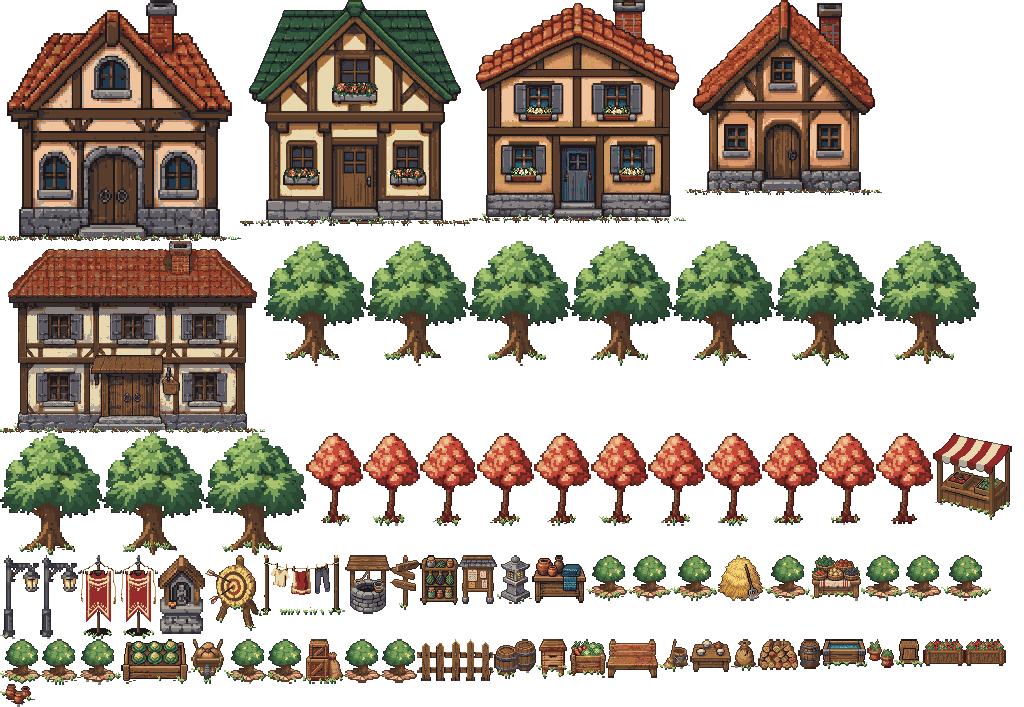
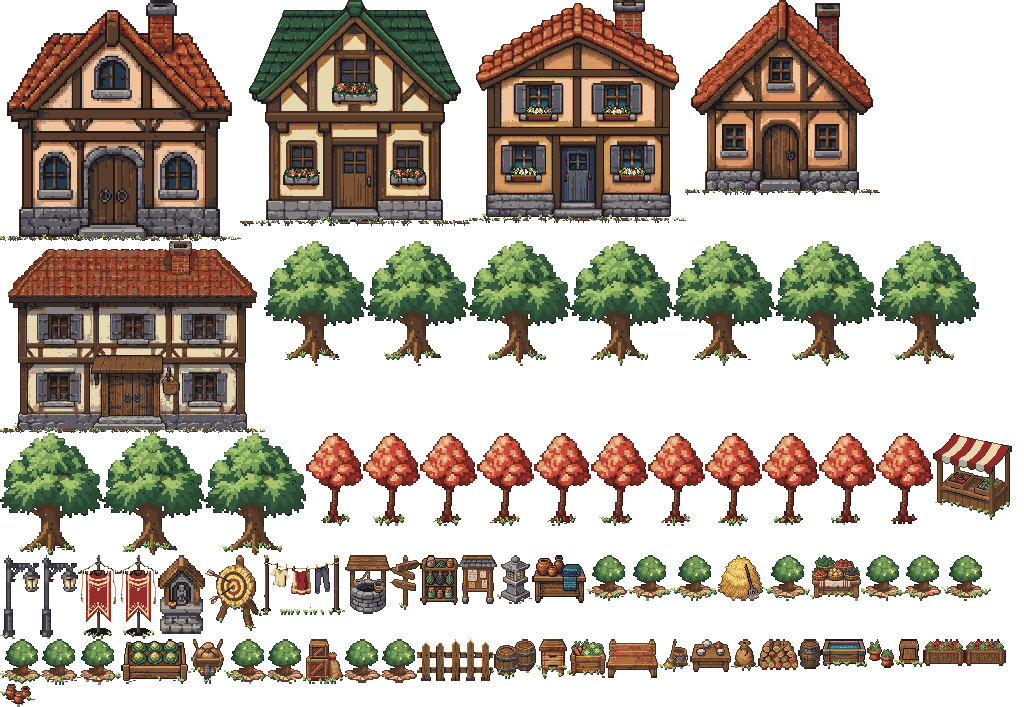
Set Gao's top-down house 2 px west so its door is on its step cell
Claude-Session: https://claude.ai/code/session_01H8JDTPYztrZvUL5HBCK6eR

Changed region(s): [[0.6562, 0.0, 0.875, 0.2801]]

diff --git a/src/content/scenes/baDan.topdown.ts b/src/content/scenes/baDan.topdown.ts
@@ -14,8 +14,9 @@
  *   columns 6-9 and 13-16): Pella's, and the south-east house. The prototype's extra north-east house
  *   stands past the north edge at columns 18-23 (the merchant's house, the only front wide enough for
  *   the six tree cells of row 0 it covers); its south-east one is left out (see `LEFT_OUT`).
- * - **Doors** stay where `residents/baDan.ts` has them for now: PixelLab's houses are front views
- *   with the door in the middle of the south face, and the scene change moves the door cells.
+ * - **Doors**: PixelLab's houses are front views with the door in the middle of the south face, so
+ *   the residents' door cells (`residents/baDan.ts`) are the cells under them: Gao (7, 4), Mira
+ *   (13, 4), Pella's household (8, 14).
  * - **Dressing**: each piece of the oblique scene's dressing (`BA_DAN_DRESSING`, the courtyard props)
  *   is played by the prototype piece that does the same job, on the same cells.
  * - **Slots**: the route sign at (18, 12) and the school notice at (12, 11) are drawn by another change.
@@ -73,7 +74,8 @@ const NORTH = 4 * CELL - 16;
 const SOUTH = 14 * CELL - 16;
 
 const HOUSES: readonly TopDownObject[] = [
-  put('gao-house', 'house_gao', 'house', 320, NORTH, rect(6, 1, 9, 3)),
+  // 2 px west of the footprint's middle, so the door (its centre at x 316) is on its step cell (7, 4).
+  put('gao-house', 'house_gao', 'house', 318, NORTH, rect(6, 1, 9, 3)),
   put('mira-house', 'house_mira', 'house', 560, NORTH, rect(12, 1, 15, 3)),
   put('pella-house', 'house_pella', 'house', 320, SOUTH, rect(6, 10, 9, 13)),
   put('southeast-house', 'house_se', 'house', 590, SOUTH, rect(13, 10, 16, 13)),

diff --git a/src/content/scenes/baDan.topdown.art.ts b/src/content/scenes/baDan.topdown.art.ts
@@ -141,10 +141,10 @@ export const BA_DAN_TOPDOWN_UPRIGHTS: Readonly<
     height: 48,
   },
   'gao-house': {
-    sourceRect: { x: 686, y: 1, width: 195, height: 193 },
+    sourceRect: { x: 686, y: 1, width: 193, height: 193 },
     x: 222,
     y: -46,
-    width: 195,
+    width: 193,
     height: 193,
   },
   garden: {
@@ -567,7 +567,7 @@ export const BA_DAN_TOPDOWN_EXTENT = { x: -128, y: -192, width: 1248, height: 99
 
 /** Where smoke leaves each house's drawn chimney, in fractional cells (`MapScene.chimneys`). */
 export const BA_DAN_TOPDOWN_CHIMNEYS: readonly { readonly x: number; readonly y: number }[] = [
-  { x: 9.125, y: -1.1 },
+  { x: 9.075, y: -1.1 },
   { x: 15.075, y: -2.325 },
   { x: 8.025, y: 8.075 },
   { x: 16.025, y: 8.15 },
